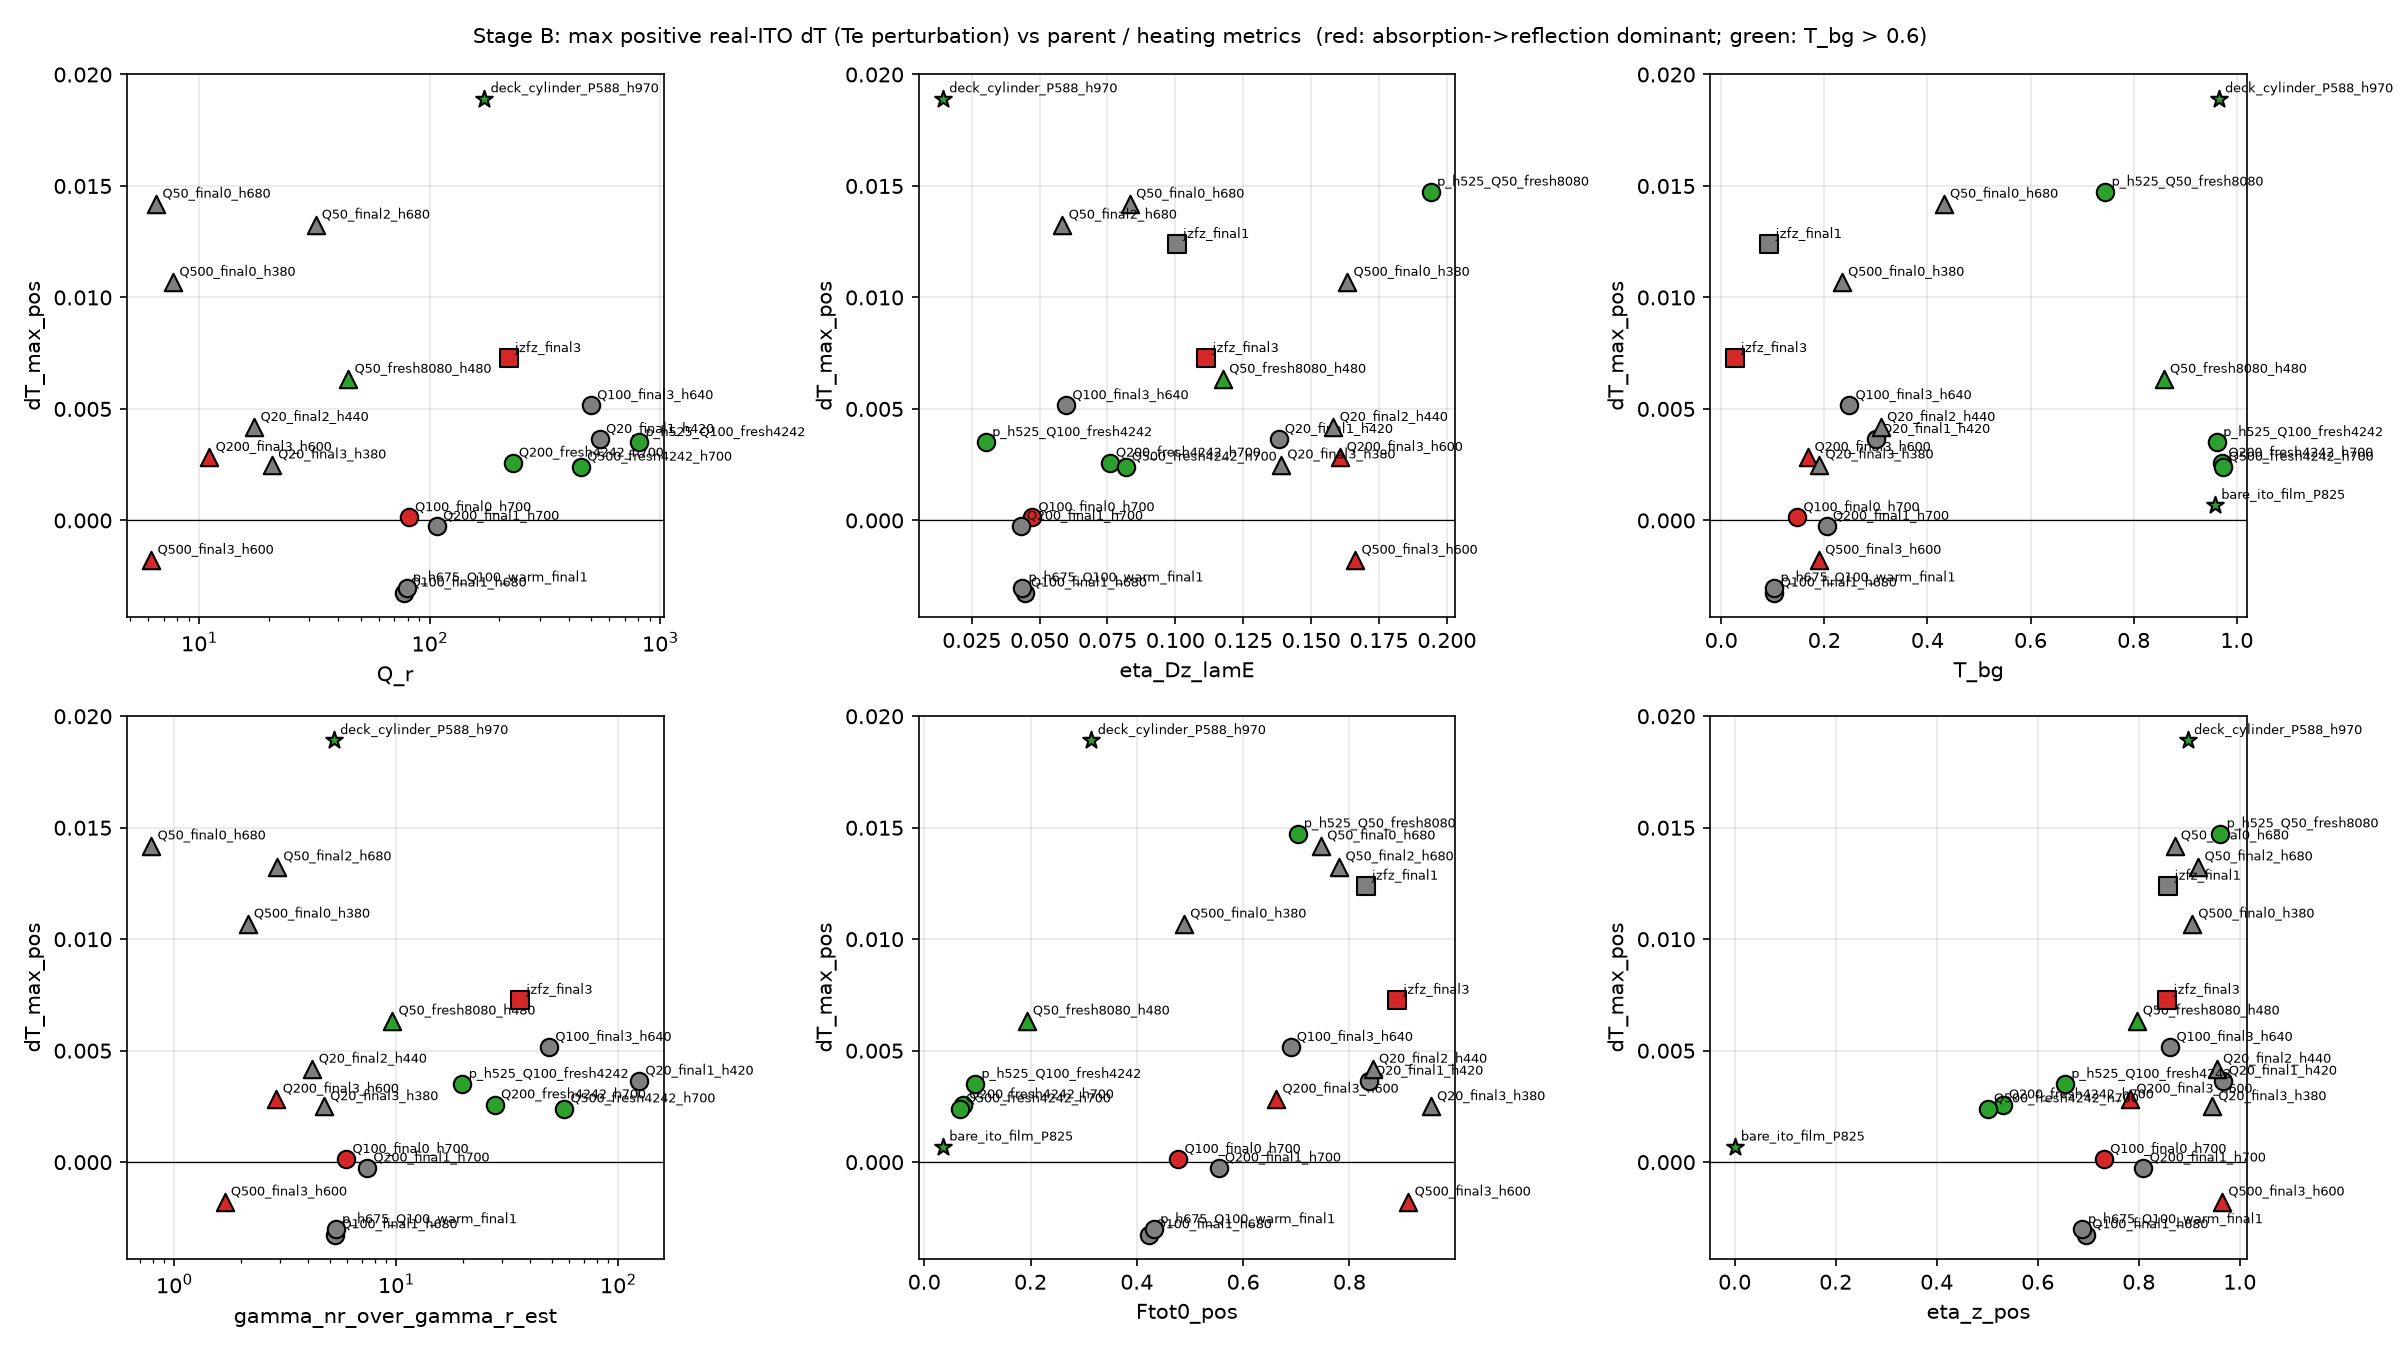
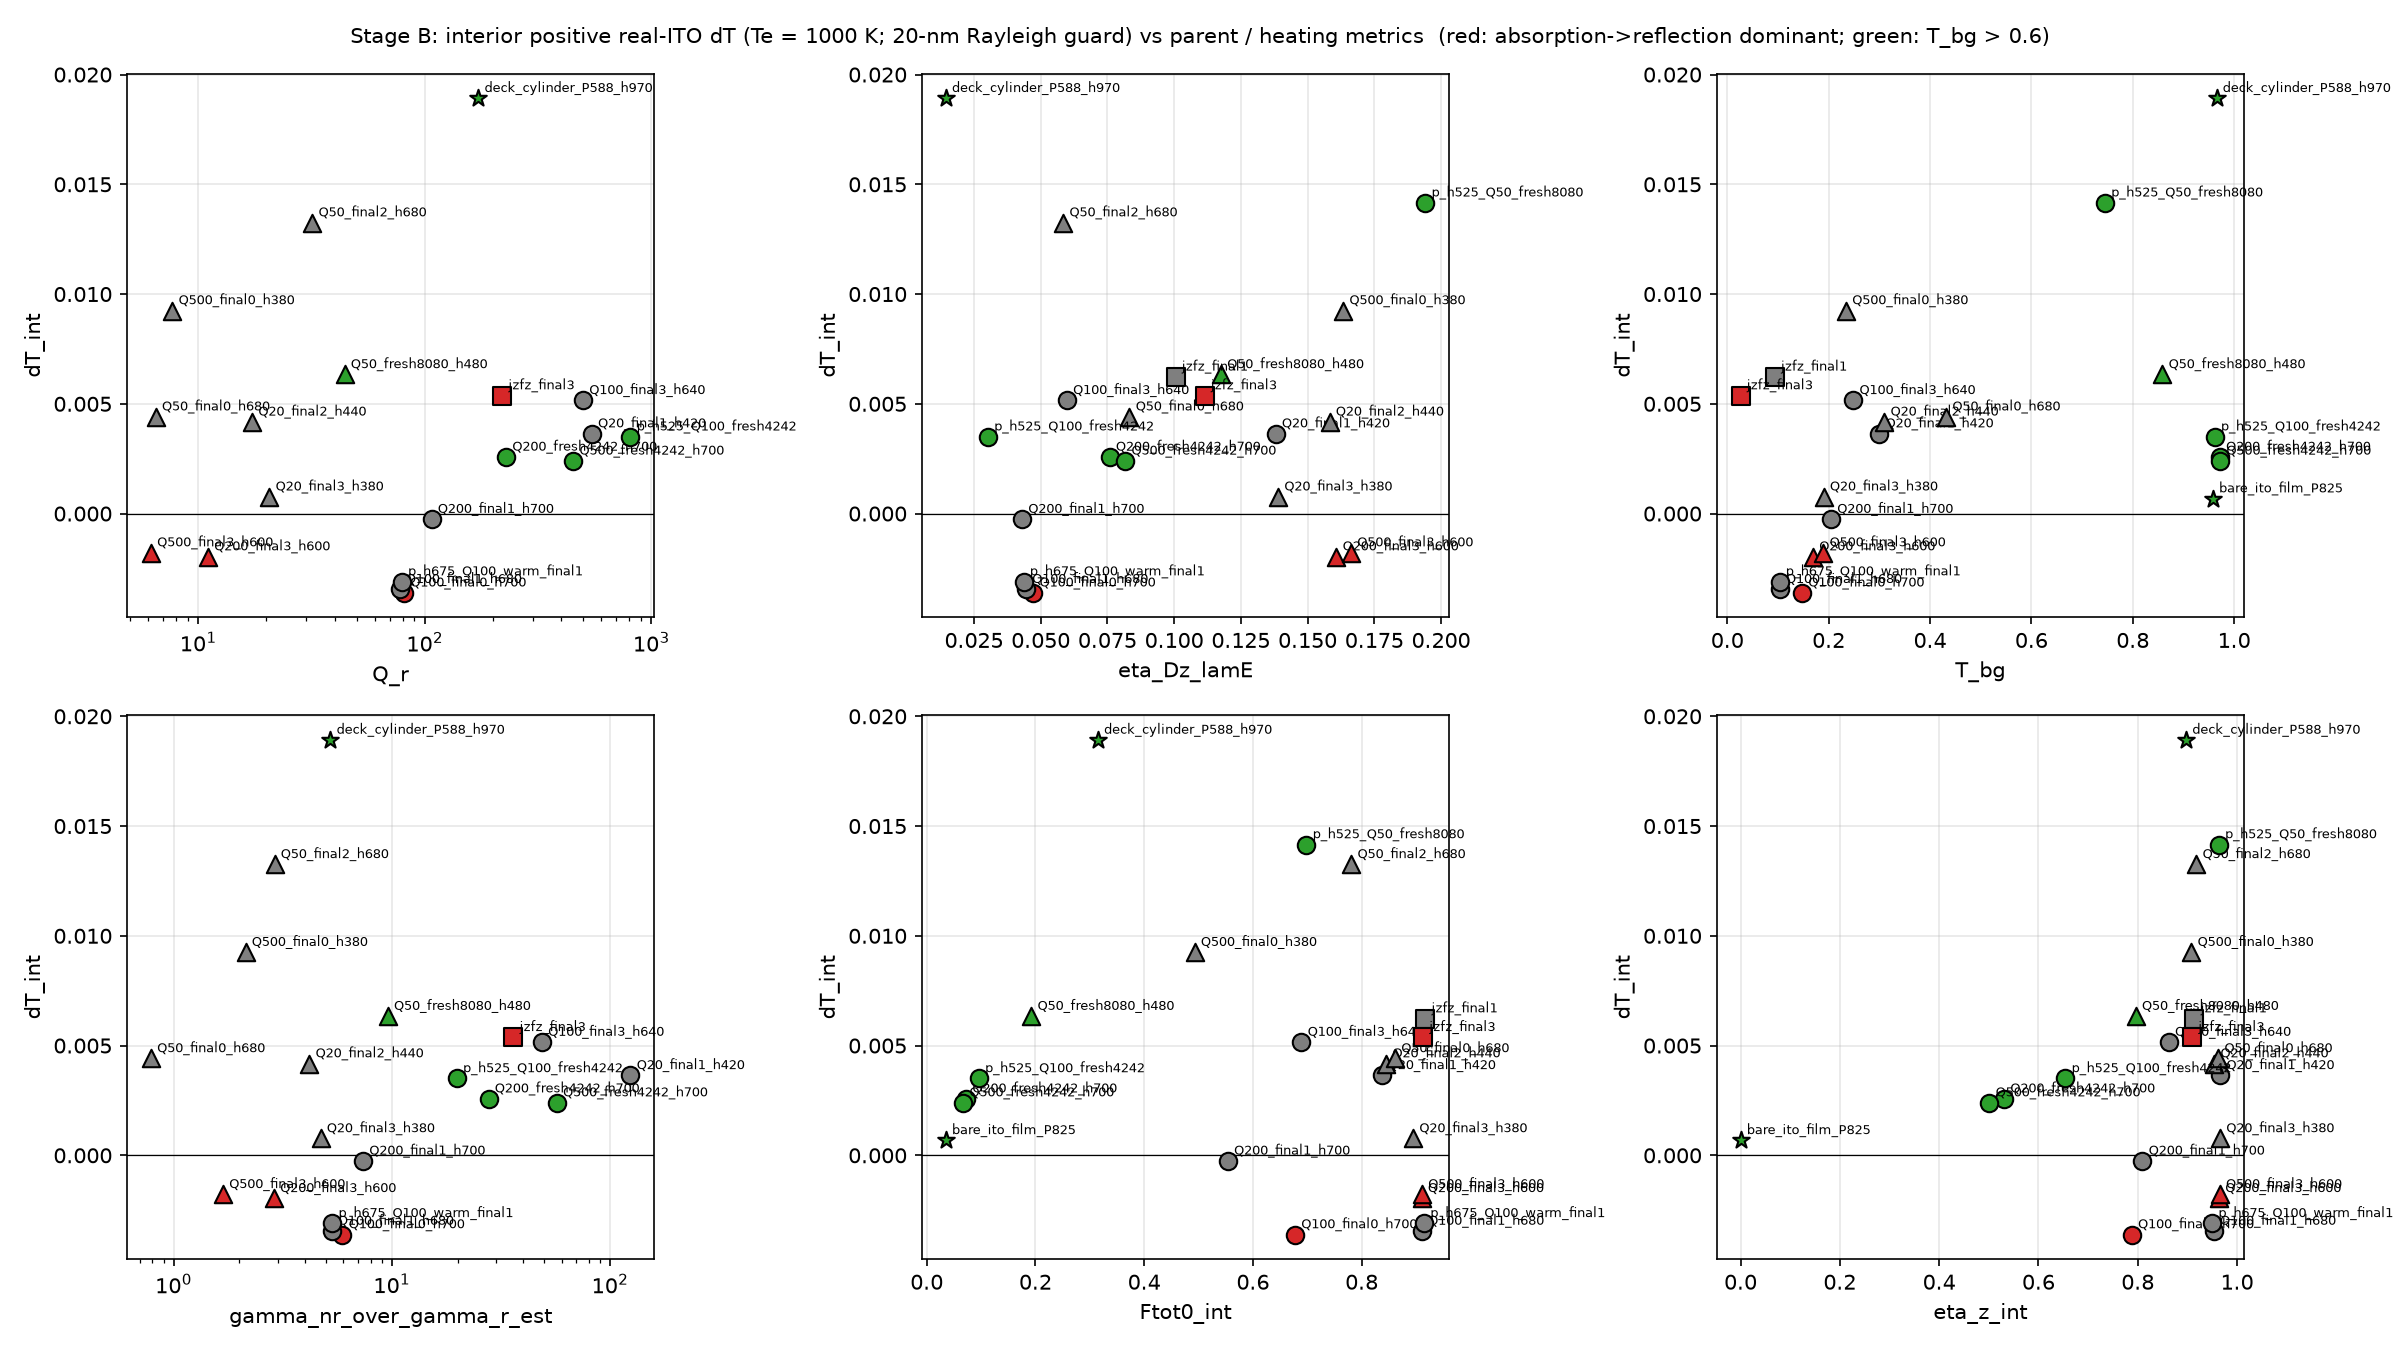
Activation selection: figures on the interior operating point; report tables regenerated
Claude-Session: https://claude.ai/code/session_01XoECjUQZwmMZ4dNdjztZeN

diff --git a/enz_jz_inverse_design/qdz_activation/select_pareto.py b/enz_jz_inverse_design/qdz_activation/select_pareto.py
@@ -236,9 +236,9 @@ def main():
                 ax.set_xscale("log")
             ax.set_xlabel(xk); ax.set_ylabel(yk); ax.grid(alpha=0.3); ax.axhline(0, color="k", lw=0.6)
         fig, axs = plt.subplots(2, 3, figsize=(16, 9))
-        sc(axs[0, 0], "Q_r", "dT_max_pos", logx=True); sc(axs[0, 1], "eta_Dz_lamE", "dT_max_pos"); sc(axs[0, 2], "T_bg", "dT_max_pos")
-        sc(axs[1, 0], "gamma_nr_over_gamma_r_est", "dT_max_pos", logx=True); sc(axs[1, 1], "Ftot0_pos", "dT_max_pos"); sc(axs[1, 2], "eta_z_pos", "dT_max_pos")
-        fig.suptitle("Stage B: max positive real-ITO dT (Te perturbation) vs parent / heating metrics  (red: absorption->reflection dominant; green: T_bg > 0.6)", fontsize=10)
+        sc(axs[0, 0], "Q_r", "dT_int", logx=True); sc(axs[0, 1], "eta_Dz_lamE", "dT_int"); sc(axs[0, 2], "T_bg", "dT_int")
+        sc(axs[1, 0], "gamma_nr_over_gamma_r_est", "dT_int", logx=True); sc(axs[1, 1], "Ftot0_int", "dT_int"); sc(axs[1, 2], "eta_z_int", "dT_int")
+        fig.suptitle("Stage B: interior positive real-ITO dT (Te = 1000 K; 20-nm Rayleigh guard) vs parent / heating metrics  (red: absorption->reflection dominant; green: T_bg > 0.6)", fontsize=10)
         fig.tight_layout(); fig.savefig(FIG / "dT_vs_metrics.png", dpi=150); plt.close(fig)
         # spectra panels for the top 6 by dT_max_pos and the references
         top = [r["tag"] for r in sorted(designs, key=lambda r: -(r["dT_max_pos"] or -9))[:6]] + [r["tag"] for r in rows if r["kind"] == "reference"]
